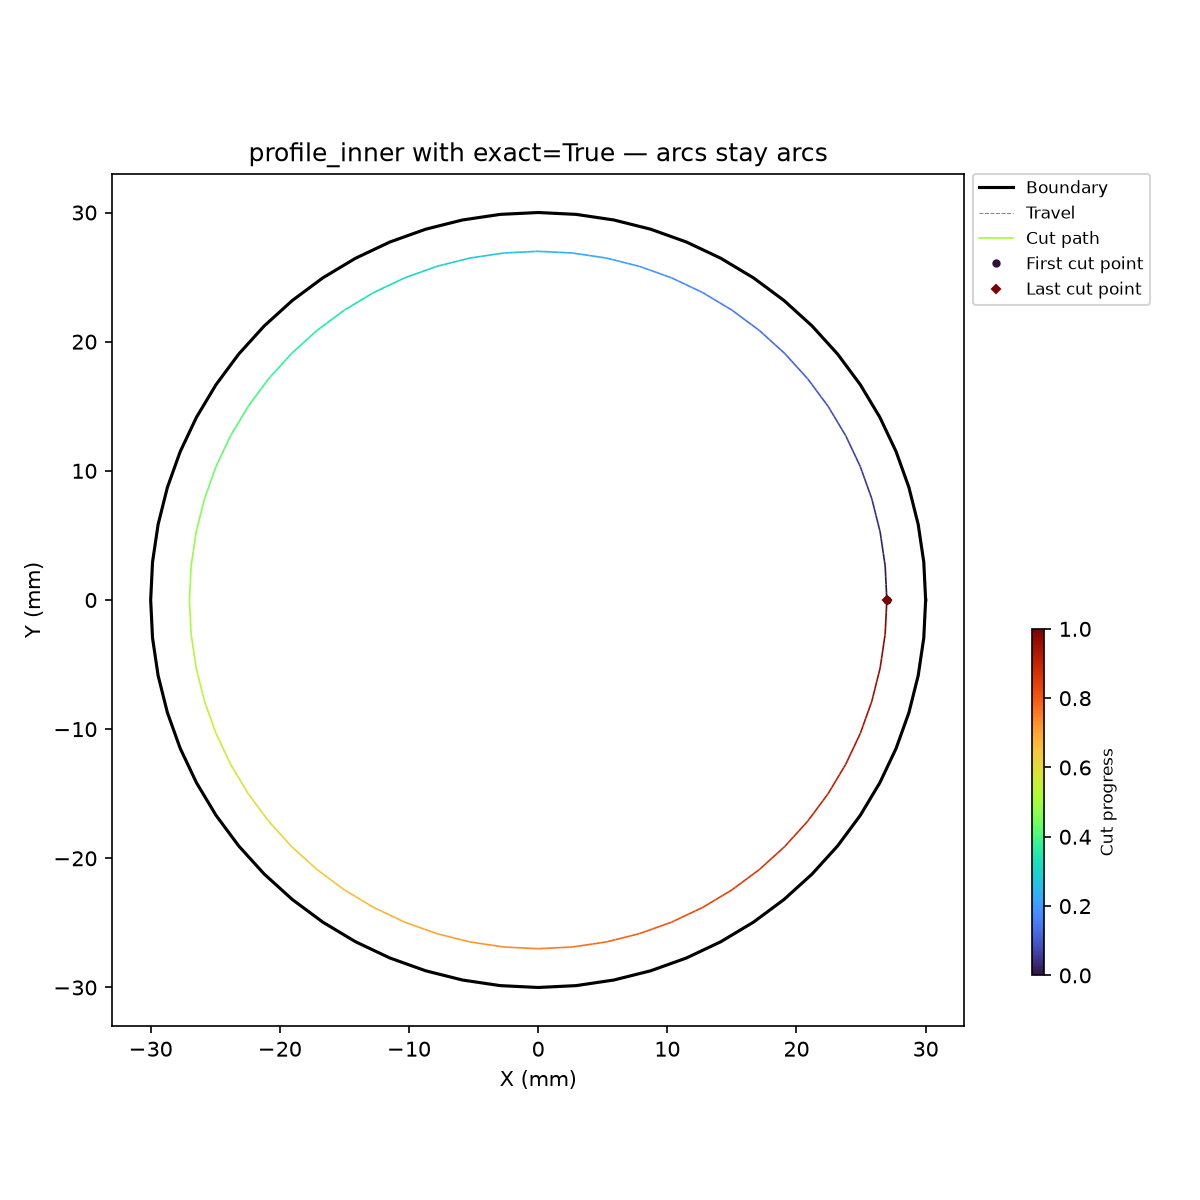
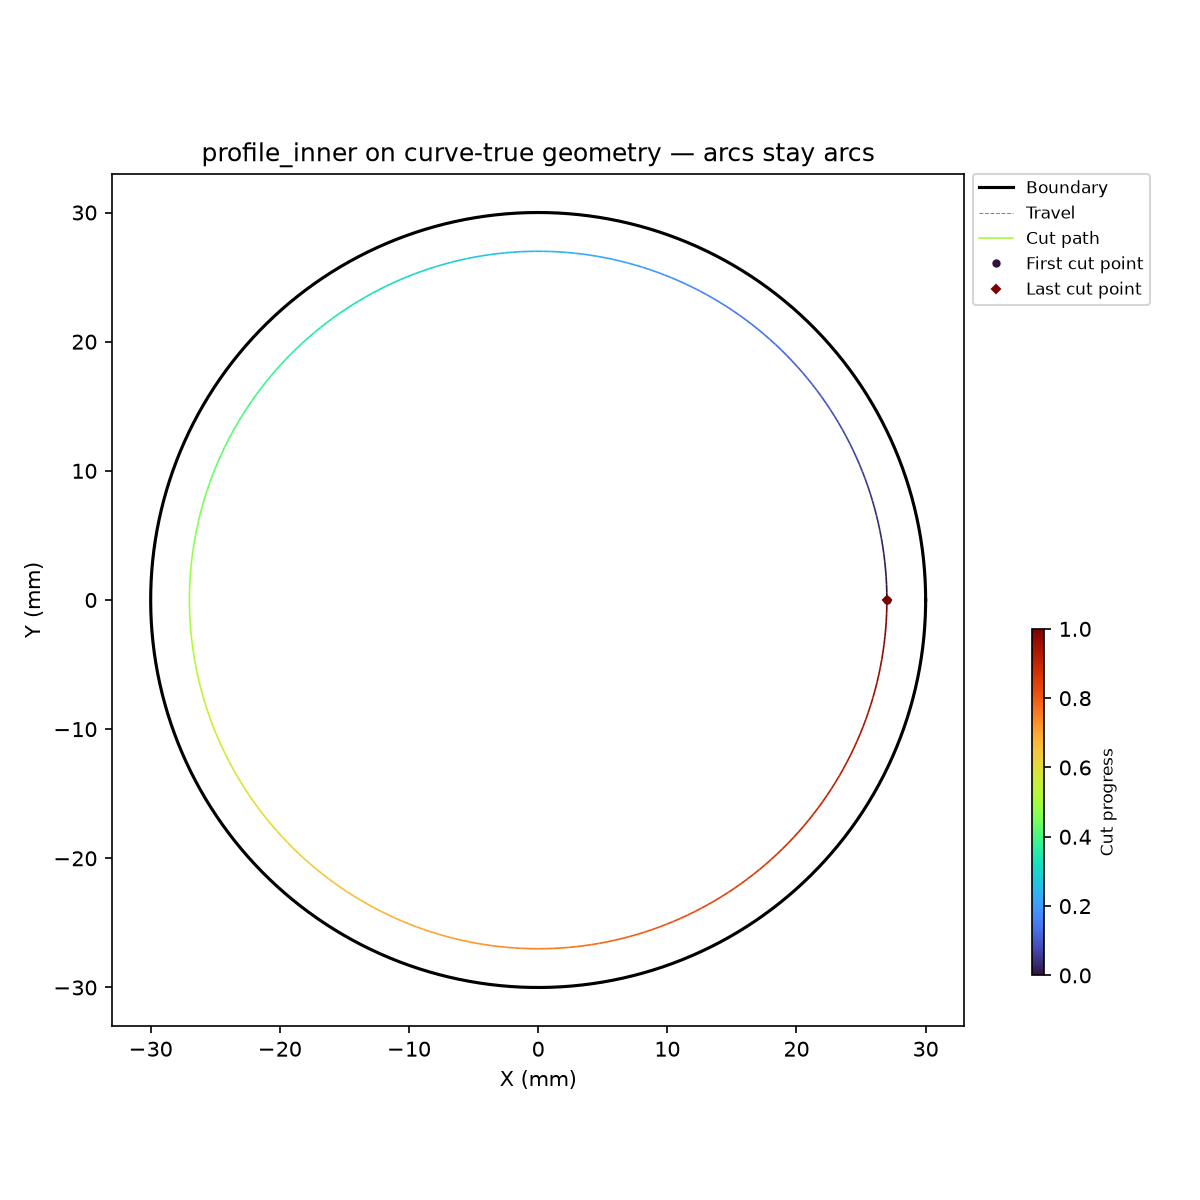
docs(ops): plot the profile example against a curve-true circle
The exact-profile example drew its boundary overlay from the four
anchor points (a diamond) instead of the circle, and passed the
removed exact kwarg. Build the part from the curve-true circle and
plot its own polygon.

Changed region(s): [[0.1542, 0.1233, 0.74, 0.1542]]

diff --git a/tools/examples/ops_assembly_profile.py b/tools/examples/ops_assembly_profile.py
@@ -2,6 +2,7 @@
 
 import matplotlib.pyplot as plt
 
+from raygeo.geo import Geometry
 from raygeo.geo.shape.polygon import (
     JoinStyle,
     get_circle_polygon,
@@ -384,10 +385,13 @@ def generate_profile_inner_rough_then_finish():
 
 
 def generate_profile_inner_circle_exact():
-    """profile_inner with exact=True on a circular boundary — the pass is
+    """profile_inner on a curve-true circular boundary — the pass is
     emitted as true arcs instead of chords."""
-    boundary = get_circle_polygon((0, 0), 30, 64)
-    part = Part.from_polygons(boundary, initial=[])
+    g = Geometry()
+    g.move_to(30, 0, 0)
+    g.arc_to(-30, 0, -30, 0, False, 0)
+    g.arc_to(30, 0, 30, 0, False, 0)
+    part = Part(geometry=g, size_mm=(80.0, 80.0))
     result = profile_inner(
         part,
         tool_radius=3.0,
@@ -398,12 +402,13 @@ def generate_profile_inner_circle_exact():
         wall_margin=0.0,
         cut_feed_rate=1000,
         cut_power=0.0,
-        exact=True,
     )
 
     fig, ax = plt.subplots(figsize=(8, 8))
+    circle_poly = g.to_polygons(0.05)[0]
+    boundary = [(p[0], p[1]) for p in circle_poly]
     plot_ops_2d(ax, result.ops, boundary=boundary)
-    ax.set_title("profile_inner with exact=True — arcs stay arcs")
+    ax.set_title("profile_inner on curve-true geometry — arcs stay arcs")
     fig.tight_layout()
     return fig
 
@@ -484,7 +489,7 @@ __images__ = [
     {
         "heading": "profile_inner",
         "caption": (
-            "profile_inner with exact=True on a circular boundary — "
+            "profile_inner on a curve-true circular boundary — "
             "the wall pass is emitted as true arcs."
         ),
         "function": generate_profile_inner_circle_exact,

diff --git a/docs/api/raygeo.ops.assembly.profile.md b/docs/api/raygeo.ops.assembly.profile.md
@@ -172,6 +172,30 @@ so that the tool clears the material along the pocket walls and around each isla
 | `trace_path`                 | `str &#124; None = None`                 | Optional path to write a binary trace file (default None).                                                                    |
 | _Returns_                    | `ops.assembly.AssemblyResult`            | An **AssemblyResult** with the profiling path.                                                                                |
 
+![profile_inner on a square pocket with island — 2D: boundary, island, offset walks, cuts (turbo).](images/ops-assembly-profile-profile-inner-rect-with-square-island-2d.png)
+
+*profile_inner on a square pocket with island — 2D: boundary, island, offset walks, cuts (turbo).*
+
+![profile_inner with two accessible islands — nearest-neighbour order via turbo gradient.](images/ops-assembly-profile-profile-inner-rect-with-two-islands-2d.png)
+
+*profile_inner with two accessible islands — nearest-neighbour order via turbo gradient.*
+
+![profile_inner on an L-shaped pocket with island — 3D: cut path at cut_z, rapids at safe_z.](images/ops-assembly-profile-profile-inner-concave-with-island-3d.png)
+
+*profile_inner on an L-shaped pocket with island — 3D: cut path at cut_z, rapids at safe_z.*
+
+![profile_inner skips an island when the channel between island and wall is too narrow.](images/ops-assembly-profile-profile-inner-narrow-channel-skips-island.png)
+
+*profile_inner skips an island when the channel between island and wall is too narrow.*
+
+![Two-pass inner profiling: rough (orange) + finish (red) on same ClearedArea.](images/ops-assembly-profile-profile-inner-rough-then-finish.png)
+
+*Two-pass inner profiling: rough (orange) + finish (red) on same ClearedArea.*
+
+![profile_inner on a curve-true circular boundary — the wall pass is emitted as true arcs.](images/ops-assembly-profile-profile-inner-circle-exact.png)
+
+*profile_inner on a curve-true circular boundary — the wall pass is emitted as true arcs.*
+
 ### `profile_outer()`
 
 ```python
@@ -220,3 +244,20 @@ an **AssemblyResult** with the profiling move sequence.
 | `engagement_angle_threshold` | `float = 3.141592653589793`              | Overengagement angle threshold (rad, default π).                                                                  |
 | `trace_path`                 | `str &#124; None = None`                 | Optional path to write a binary trace file (default None).                                                        |
 | _Returns_                    | `ops.assembly.AssemblyResult`            | An **AssemblyResult** with the profiling path.                                                                    |
+
+![profile_outer on a rect pocket — 3D (left) and 2D top-down with offset tool-centre polygon (right).](images/ops-assembly-profile-profile-outer-rect.png)
+
+*profile_outer on a rect pocket — 3D (left) and 2D top-down with offset tool-centre polygon
+(right).*
+
+![profile_outer on a circular boundary — smooth walk around the offset circle.](images/ops-assembly-profile-profile-outer-circle.png)
+
+*profile_outer on a circular boundary — smooth walk around the offset circle.*
+
+![profile_outer on an L-shaped pocket with miter join at the concave corner.](images/ops-assembly-profile-profile-outer-concave-pocket.png)
+
+*profile_outer on an L-shaped pocket with miter join at the concave corner.*
+
+![Two-pass profiling: rough (with stock, orange) + finish (red) on the same ClearedArea.](images/ops-assembly-profile-profile-outer-rough-then-finish.png)
+
+*Two-pass profiling: rough (with stock, orange) + finish (red) on the same ClearedArea.*

diff --git a/docs/api/raygeo.cnc.plan.profile.md b/docs/api/raygeo.cnc.plan.profile.md
@@ -1,0 +1,53 @@
+---
+title: raygeo.cnc.plan.profile
+sidebar_label: raygeo.cnc.plan.profile
+---
+
+CNC profile plan builder.
+
+Produces a one-step **~raygeo.cnc.plan.Plan** that profiles the face boundary: the inset (inner) or
+grown (outer) offset, walked once at the target depth.
+
+## Functions
+
+### `plan_profile()`
+
+```python
+plan_profile(
+    part: ops.part.Part,
+    face_id: str = '',
+    side: str = 'inner',
+    tool_radius: float = 3,
+    step_over: float = 2,
+    step_length: float = 0.6,
+    target_z: float = -5,
+    safe_z: float = 2,
+    wall_margin: float = 0,
+    stock_to_leave: float = 0,
+    cut_direction: str = 'ccw',
+    tolerance: float = 0.1,
+    feed_rate: Optional[float] = None,
+) -> cnc.plan.Plan
+```
+
+Build a one-step plan that profiles a face boundary. The step walks the inset boundary (side
+"inner", the pocket side) or the grown boundary (side "outer", around the part) once at the target
+depth, honouring islands on the inner side. Curve-true face geometry is followed exactly, with arcs
+emitted as arcs; polygon-only parts take the chord path.
+
+| Parameter        | Type                     | Description                                                          |
+| ---------------- | ------------------------ | -------------------------------------------------------------------- |
+| `part`           | `ops.part.Part`          | part whose face is profiled.                                         |
+| `face_id`        | `str = ''`               | face to profile ("" is the default face).                            |
+| `side`           | `str = 'inner'`          | `"inner"` or `"outer"`.                                              |
+| `tool_radius`    | `float = 3`              | tool radius (mm).                                                    |
+| `step_over`      | `float = 2`              | radial step-over between passes (mm).                                |
+| `step_length`    | `float = 0.6`            | forward step length (mm).                                            |
+| `target_z`       | `float = -5`             | cutting depth (mm).                                                  |
+| `safe_z`         | `float = 2`              | safe rapid height (mm).                                              |
+| `wall_margin`    | `float = 0`              | extra distance to keep from the wall (mm).                           |
+| `stock_to_leave` | `float = 0`              | stock left on the wall (mm).                                         |
+| `cut_direction`  | `str = 'ccw'`            | `"ccw"` (wall on the left, climb for a clockwise spindle) or `"cw"`. |
+| `tolerance`      | `float = 0.1`            | boundary-following tolerance (mm).                                   |
+| `feed_rate`      | `Optional[float] = None` | cut feed (mm/min); None leaves the plan's cut state unset.           |
+| _Returns_        | `cnc.plan.Plan`          | the profile plan.                                                    |
